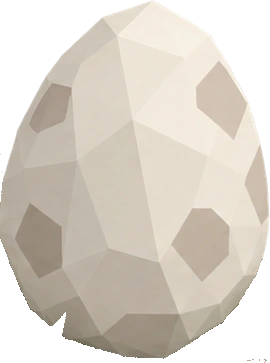
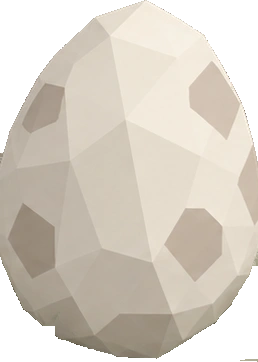
Fix egg silhouette notch and add a full hatch animation
Rebuild the egg/nest layer split using morphological closing plus
nearest-neighbor inpainting so the grass blade that used to cut a
notch into the egg's silhouette is gone. Also add a dramatic hatch
sequence: the whole nest+egg scene grows and fades together while
the background blurs behind it, instead of just the egg shrinking
away on its own.

Claude-Session: https://claude.ai/code/session_01E9m5Ew5yCPunuwiWP8Sayp

diff --git a/src/App.jsx b/src/App.jsx
@@ -471,37 +471,40 @@ function EggNest({ onHatch }) {
 
     if (next >= HATCH_CLICKS) {
       setHatching(true)
-      setTimeout(onHatch, 550)
+      setTimeout(onHatch, 620)
     }
   }
 
   return (
-    <div className="egg-scene">
-      <img className="nest-layer" src={nestImage} alt="" aria-hidden="true" />
+    <>
+      <div className={`hatch-backdrop ${hatching ? 'hatch-backdrop--active' : ''}`} aria-hidden="true" />
+      <div className={`egg-scene ${hatching ? 'egg-scene--hatching' : ''}`}>
+        <img className="nest-layer" src={nestImage} alt="" aria-hidden="true" />
 
-      <button
-        type="button"
-        className="egg-button"
-        onClick={handleClick}
-        aria-label="Toca el huevo para incubarlo"
-      >
-        <div
-          key={shakeKey}
-          className={`egg ${hatching ? 'egg--hatch' : 'egg--shake'}`}
-          style={{ backgroundImage: `url(${eggOnlyImage})` }}
+        <button
+          type="button"
+          className="egg-button"
+          onClick={handleClick}
+          aria-label="Toca el huevo para incubarlo"
         >
-          {clicks >= 3 && <span className="egg-crack egg-crack--1" />}
-          {clicks >= 6 && <span className="egg-crack egg-crack--2" />}
-          {clicks >= 9 && <span className="egg-crack egg-crack--3" />}
-        </div>
-      </button>
+          <div
+            key={shakeKey}
+            className={`egg ${hatching ? 'egg--hatch' : 'egg--shake'}`}
+            style={{ backgroundImage: `url(${eggOnlyImage})` }}
+          >
+            {clicks >= 3 && <span className="egg-crack egg-crack--1" />}
+            {clicks >= 6 && <span className="egg-crack egg-crack--2" />}
+            {clicks >= 9 && <span className="egg-crack egg-crack--3" />}
+          </div>
+        </button>
 
-      <div className="egg-progress" aria-hidden="true">
-        {Array.from({ length: HATCH_CLICKS }).map((_, i) => (
-          <span key={i} className={`egg-dot ${i < clicks ? 'egg-dot--filled' : ''}`} />
-        ))}
+        <div className="egg-progress" aria-hidden="true">
+          {Array.from({ length: HATCH_CLICKS }).map((_, i) => (
+            <span key={i} className={`egg-dot ${i < clicks ? 'egg-dot--filled' : ''}`} />
+          ))}
+        </div>
       </div>
-    </div>
+    </>
   )
 }
 

diff --git a/src/App.css b/src/App.css
@@ -755,6 +755,7 @@
   width: 360px;
   aspect-ratio: 1413 / 847;
   transform: translate(-50%, -50%);
+  z-index: 1;
 }
 
 .nest-layer {
@@ -770,9 +771,9 @@
 .egg-button {
   position: absolute;
   top: 26.33%;
-  left: 40.2%;
-  width: 19.11%;
-  height: 42.86%;
+  left: 40.69%;
+  width: 18.26%;
+  height: 42.74%;
   z-index: 1;
   padding: 0;
   border: none;
@@ -795,7 +796,7 @@
 }
 
 .egg--hatch {
-  animation: egg-hatch 0.55s ease-in forwards;
+  animation: egg-hatch-pop 0.6s ease-in forwards;
 }
 
 @keyframes egg-shake {
@@ -816,17 +817,53 @@
   }
 }
 
-@keyframes egg-hatch {
+@keyframes egg-hatch-pop {
   0% {
-    transform: scale(1);
+    transform: scale(1) rotate(0deg);
+  }
+  40% {
+    transform: scale(1.1) rotate(-5deg);
+  }
+  70% {
+    transform: scale(1.04) rotate(4deg);
+  }
+  100% {
+    transform: scale(1.12) rotate(0deg);
+  }
+}
+
+.hatch-backdrop {
+  position: fixed;
+  inset: 0;
+  z-index: 0;
+  background: rgba(253, 252, 251, 0);
+  backdrop-filter: blur(0px);
+  -webkit-backdrop-filter: blur(0px);
+  pointer-events: none;
+  transition: background 0.6s ease, backdrop-filter 0.6s ease, -webkit-backdrop-filter 0.6s ease;
+}
+
+.hatch-backdrop--active {
+  background: rgba(253, 252, 251, 0.55);
+  backdrop-filter: blur(10px);
+  -webkit-backdrop-filter: blur(10px);
+}
+
+.egg-scene--hatching {
+  animation: scene-hatch-grow 0.6s ease-in forwards;
+}
+
+@keyframes scene-hatch-grow {
+  0% {
+    transform: translate(-50%, -50%) scale(1);
     opacity: 1;
   }
-  55% {
-    transform: scale(1.18) rotate(-4deg);
+  60% {
+    transform: translate(-50%, -50%) scale(1.5);
     opacity: 1;
   }
   100% {
-    transform: scale(0.25) rotate(8deg);
+    transform: translate(-50%, -50%) scale(2.1);
     opacity: 0;
   }
 }
